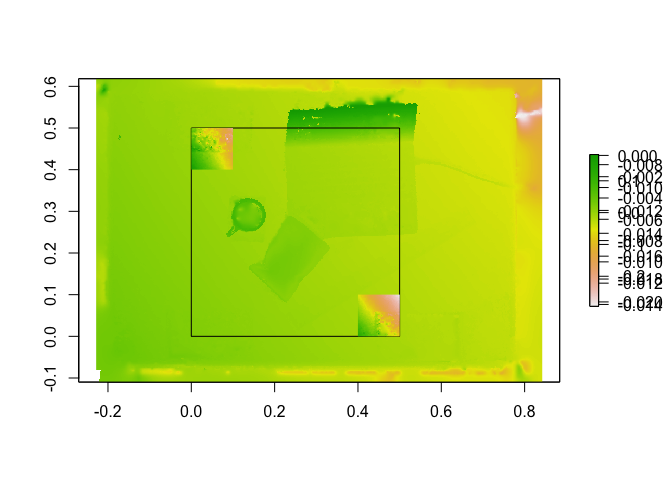
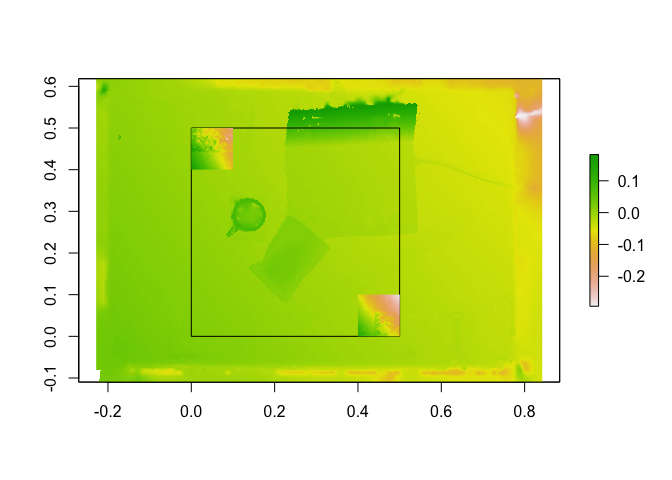
Trim instructions

Changed region(s): [[0.875, 0.3125, 1.0, 0.6562]]

diff --git a/habtools-workshop.md b/habtools-workshop.md
@@ -1,44 +1,7 @@
 
 # The *habtools* & biodiversity workshop
 
-One of community ecology’s few paradigms is that complex habitats tend
-to contain more species and at higher abundances than simple habitats.
-Currently, human and natural disturbances are changing the complexity of
-habitats faster than at any previous time in history. Understanding and
-predicting the effects of these changes on biodiversity and ecosystem
-function is now of paramount importance. Yet, we have only a crude,
-correlative understanding of how complexity changes affect biodiversity,
-predicting that if habitat becomes flatter, species’ diversity and
-abundances decline. We have next to no idea of how complexity changes
-affect ecosystem functions and services. Generating accurate predictions
-requires integration of the geometric and ecological principles that
-mechanistically underpin complexity-ecological relationships.
-
-Habitat geometry can be measured in many ways. However, in marine
-systems, surface rugosity has become gold standard, because it can be
-measured quickly with a tape measure and a length of chain. The chain is
-draped as closely as possible over the the benthos and then the linear
-distance between the two ends of the chain is measured (Figure below).
-Rugosity is calculated as $R = \frac{D_{chain}}{L_{chain}}$. If the
-surface is completely flat, then $D_{chain}$ will be the same as
-$L_{chain}$. On more convoluted surfaces, the linear distance
-$D_{chain}$ is shorter, and rugosity is greater.
-
-<img src="figs/rugosity.png" width="500">
-
-Many studies have found relationships between surface rugosity and the
-richness and abundance of associated species. Many studies have found no
-relationship at all, calling into questions what rugosity actually tells
-us about a habitat and how niches are distributed and partitioned.
-Advances in the way marine scientists can capture benthic surfaces have
-transformed our capacity to explore the geometric-biodiversity
-relationships (Torres-Pulliza et al. 2020). One such advance is the
-generation of surface structure from motion, which allows us to
-associate orthomosics of benthic cover (essentially stitched together
-photographs over large areas) with the 3D surfaces upon which the
-biodiversity lives (Pizarro et al. 2017).
-
-### Objectives
+### Goals
 
 1.  Generate a digital elevation model (DEM), an orthomosaic, and
     optionally a 3d mesh for printing.
@@ -238,8 +201,8 @@ length(dem_list)
 ``` r
 plot(dem)
 rect(0, 0, 0.5, 0.5)
-plot(dem_list[[1]], add=TRUE)
-plot(dem_list[[25]], add=TRUE)
+plot(dem_list[[1]], add=TRUE, legend=FALSE)
+plot(dem_list[[25]], add=TRUE, legend=FALSE)
 ```
 
 ![](habtools-workshop_files/figure-gfm/unnamed-chunk-2-4.png)<!-- -->
@@ -268,11 +231,11 @@ dem_sample(dem_square, L=0.1, plot=TRUE)
     ## class      : RasterLayer 
     ## dimensions : 195, 195, 38025  (nrow, ncol, ncell)
     ## resolution : 0.000512008, 0.000512008  (x, y)
-    ## extent     : 0.2237654, 0.323607, 0.1590082, 0.2588497  (xmin, xmax, ymin, ymax)
+    ## extent     : 0.2744542, 0.3742958, 0.3771236, 0.4769651  (xmin, xmax, ymin, ymax)
     ## crs        : NA 
     ## source     : memory
     ## names      : dem 
-    ## values     : -0.01702718, 0.0301676  (min, max)
+    ## values     : -0.01943417, 0.04123395  (min, max)
 
 3.  Re-project DEM (if you have a GPS coordinate)
 

diff --git a/README.md b/README.md
@@ -12,7 +12,7 @@ plants, animals and other kinds of data. The workshop has three parts:
 3.  Exploring biodiversity relationships
 
 An introduction to the workshop can be found
-[here](https://docs.google.com/presentation/d/1EcmqFs0lL1LlaK2j6uU90SUzEh0ms94cLV1RxN7I0Pc/edit?usp=sharing).
+[here](https://docs.google.com/presentation/d/144kZaggJfIWfz6h4kGZpERBm7UxttPFXvin1WmoqDBE/edit?usp=sharing).
 During the workshop we will run through the steps found
 [here](habtools-workshop.md).
 
